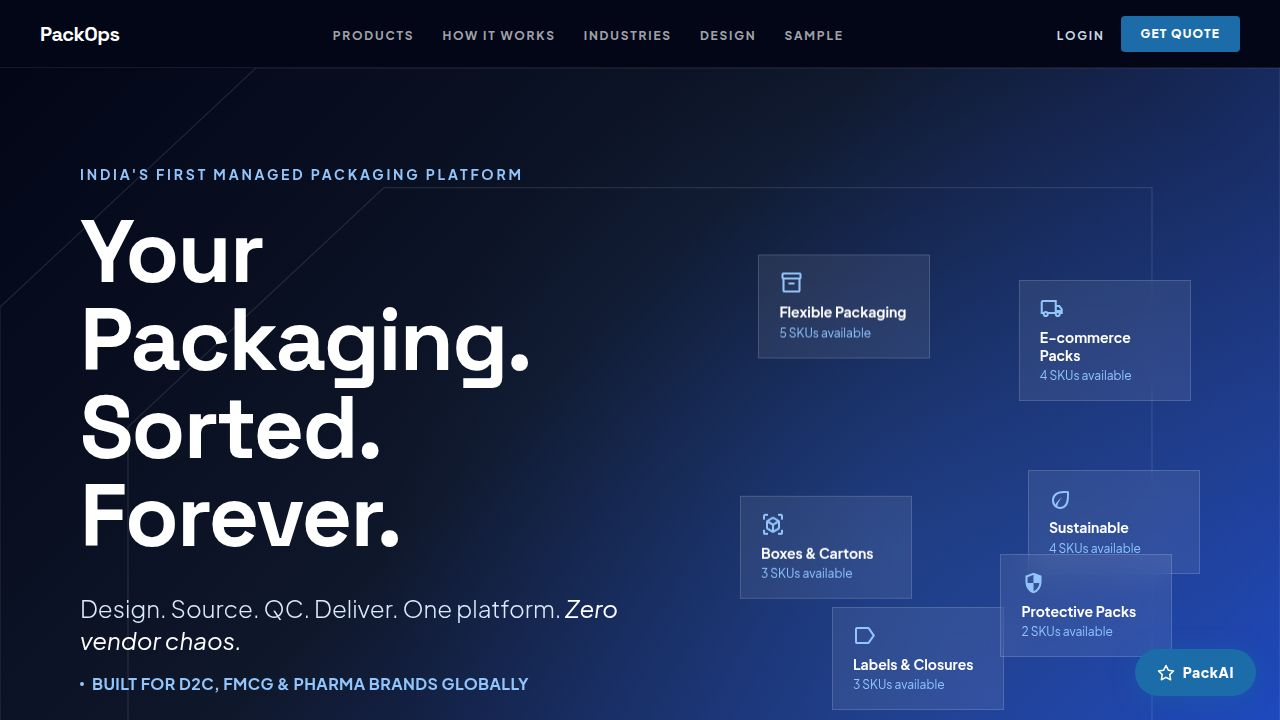
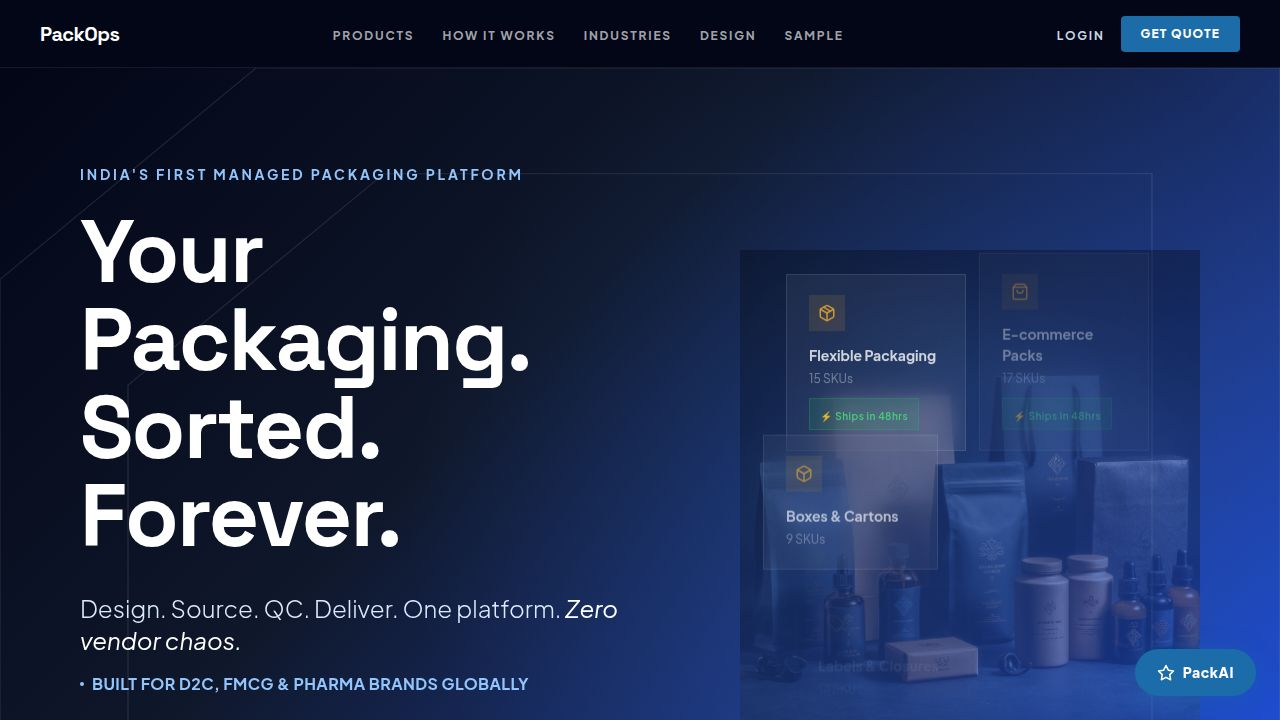
Update website design to align text and remove rounded corners
Refactor home page component, removing border-radius from various elements, adjusting hero section layout, redesigning the process section, updating stats, and adding a customer logo section.

Replit-Commit-Author: Agent
Replit-Commit-Session-Id: 9320c652-0aac-4a3b-9982-cb920823c318
Replit-Commit-Checkpoint-Type: full_checkpoint
Replit-Commit-Event-Id: f644e4ad-e3fe-4b98-9353-7b7ec3306c03
Replit-Commit-Screenshot-Url: https://storage.googleapis.com/screenshot-production-us-central1/300a5f71-6af5-4265-8b38-114f63a45436/9320c652-0aac-4a3b-9982-cb920823c318/lxqJ0bG
Replit-Helium-Checkpoint-Created: true

Changed region(s): [[0.5625, 0.3361, 0.9375, 1.0], [0.7812, 0.3361, 0.9375, 0.6111]]

diff --git a/artifacts/packwerk/src/pages/home.tsx b/artifacts/packwerk/src/pages/home.tsx
@@ -23,6 +23,17 @@ const MS = ({ icon, className = "", style }: IconProps) => (
 
 const MARQUEE_1 = Array(8).fill("We are not a vendor. We are your packaging partner.");
 
+const CUSTOMER_LOGOS = [
+  { name: "Mamaearth",        abbr: "ME",  color: "#2C7A0F" },
+  { name: "Nykaa",            abbr: "NK",  color: "#E91E8C" },
+  { name: "WOW Skin Science", abbr: "WOW", color: "#0047AB" },
+  { name: "Himalaya",         abbr: "H",   color: "#006341" },
+  { name: "Sugar Cosmetics",  abbr: "SG",  color: "#C0392B" },
+  { name: "Dabur",            abbr: "D",   color: "#E67E22" },
+  { name: "mCaffeine",        abbr: "mC",  color: "#4A235A" },
+  { name: "boAt",             abbr: "bT",  color: "#1A1A1A" },
+];
+
 const HERO_CARDS = [
   {
     title: "Flexible Packaging", Icon: Package, count: "15 SKUs", slug: "flexible", badge: true,
@@ -236,7 +247,6 @@ function CaseDetail({ cs }: { cs: typeof CASE_STUDIES[0] }) {
       background: "#F8F9FC",
       border: "1px solid #E2EAF4",
       borderTop: "3px solid #E8A838",
-      borderRadius: 16,
       padding: "44px 48px",
       minHeight: 380,
     }}>
@@ -275,7 +285,7 @@ function CaseDetail({ cs }: { cs: typeof CASE_STUDIES[0] }) {
           {cs.metrics.map((m) => (
             <div key={m.label} style={{
               background: "white", border: "1px solid #E2EAF4",
-              borderRadius: 10, padding: "18px 20px", textAlign: "center",
+              padding: "18px 20px", textAlign: "center",
             }}>
               <p style={{ color: "#E8A838", fontSize: 26, fontWeight: 700, lineHeight: 1 }}>{m.val}</p>
               <p style={{ color: "#64748B", fontSize: 12, marginTop: 6 }}>{m.label}</p>
@@ -365,7 +375,7 @@ export default function Home() {
       {/*  SECTION 1 — HERO                                         */}
       {/* ══════════════════════════════════════════════════════════ */}
       <section
-        className="relative min-h-[90vh] flex flex-col justify-center px-8 md:px-20 overflow-hidden py-24"
+        className="relative flex flex-col justify-center px-8 md:px-20 overflow-hidden pt-28 pb-16"
         style={{ background: "radial-gradient(circle at 70% 40%, rgba(59,130,246,0.18), transparent 45%), linear-gradient(135deg, #020617 0%, #0f172a 35%, #1e3a8a 65%, #1d4ed8 85%, #2563eb 100%)" }}
       >
         <div className="absolute inset-0 opacity-10 pointer-events-none">
@@ -376,7 +386,7 @@ export default function Home() {
         </div>
 
         <div className="relative z-10 w-full max-w-7xl mx-auto">
-          <div className="grid grid-cols-1 lg:grid-cols-[1fr_460px] gap-12 xl:gap-20 items-center mb-14">
+          <div className="grid grid-cols-1 lg:grid-cols-[1fr_460px] gap-12 xl:gap-16 items-center mb-10">
             <div>
               <p className="font-bold tracking-[0.2em] mb-6 text-sm uppercase" style={{ color: "#93c5fd" }}>
                 INDIA'S FIRST MANAGED PACKAGING PLATFORM
@@ -412,7 +422,7 @@ export default function Home() {
                 position: "absolute", inset: 0,
                 backgroundImage: "url('/images/hero-packaging-bg.jpg')",
                 backgroundSize: "cover", backgroundPosition: "center",
-                zIndex: 0, opacity: 0.3, borderRadius: 16,
+                zIndex: 0, opacity: 0.3,
               }} />
               {/* Cards container */}
               <div style={{ position: "relative", zIndex: 1, width: "100%", height: "100%" }}>
@@ -431,7 +441,6 @@ export default function Home() {
                           border: card.greenBorder
                             ? "1px solid rgba(74,222,128,0.2)"
                             : "1px solid rgba(255,255,255,0.12)",
-                          borderRadius: 16,
                           padding: "20px 22px",
                           cursor: "pointer",
                           animation: heroLoaded ? card.floatAnim : "none",
@@ -456,7 +465,7 @@ export default function Home() {
                         }}
                       >
                         <div style={{
-                          width: 36, height: 36, borderRadius: 10,
+                          width: 36, height: 36,
                           background: "rgba(232,168,56,0.15)",
                           display: "flex", alignItems: "center", justifyContent: "center",
                           marginBottom: 14,
@@ -474,7 +483,7 @@ export default function Home() {
                             display: "inline-block", marginTop: 10,
                             background: "rgba(34,197,94,0.15)",
                             border: "1px solid rgba(34,197,94,0.3)",
-                            borderRadius: 999, padding: "3px 10px",
+                            padding: "3px 10px",
                           }}>
                             <span style={{ color: "#4ade80", fontSize: 10, fontWeight: 600, letterSpacing: "0.5px" }}>
                               ⚡ Ships in 48hrs
@@ -490,39 +499,20 @@ export default function Home() {
           </div>
 
           {/* Stats strip */}
-          <div className="grid grid-cols-2 md:grid-cols-5 gap-8 py-10 border-t border-white/15">
-            {([
-              { target: 110, suffix: "+", label: "SKUs" },
-              { target: 500, suffix: "+", label: "Factory Partners" },
-              { target: 40,  suffix: "+", label: "Countries Served" },
-              { target: 100, suffix: "%", label: "QC Inspected" },
-              { amber: true,              label: "Hidden Charges", fixed: "₹0" },
-            ] as Array<{ target?: number; suffix?: string; label: string; amber?: boolean; fixed?: string }>).map((s) => (
+          <div className="grid grid-cols-2 md:grid-cols-4 gap-8 py-10 border-t border-white/15">
+            {[
+              { target: 500, suffix: "+", label: "Manufacturing Partners" },
+              { target: 1,   suffix: "",  label: "Owned Manufacturing Facility" },
+              { target: 220, suffix: "+", label: "Customers Globally" },
+              { target: 10,  suffix: "+", label: "Compliances" },
+            ].map((s) => (
               <div key={s.label}>
-                <p style={{ color: s.amber ? "#E8A838" : "white", fontSize: "1.5rem", fontWeight: 700 }}>
-                  {s.fixed ?? <CountUp target={s.target!} suffix={s.suffix} />}
+                <p style={{ color: "white", fontSize: "1.5rem", fontWeight: 700 }}>
+                  <CountUp target={s.target} suffix={s.suffix} />
                 </p>
                 <p className="text-blue-200 text-xs uppercase tracking-widest mt-1 opacity-80">{s.label}</p>
               </div>
             ))}
-          </div>
-
-          {/* Client logo marquee */}
-          <div className="mt-10 overflow-hidden" style={{ borderTop: "1px solid rgba(255,255,255,0.12)", paddingTop: 20 }}>
-            <p className="text-center text-xs font-bold tracking-[0.25em] uppercase mb-5" style={{ color: "rgba(255,255,255,0.5)" }}>
-              Trusted by D2C, FMCG &amp; Pharma brands
-            </p>
-            <div style={{ overflow: "hidden" }}>
-              <div className="marquee-track">
-                {[...CLIENT_PILLS, ...CLIENT_PILLS].map((name, i) => (
-                  <span key={i} className="font-bold text-sm px-5 py-2.5 rounded-full" style={{
-                    background: "rgba(255,255,255,0.08)",
-                    border: "1px solid rgba(255,255,255,0.15)",
-                    color: "white", whiteSpace: "nowrap", flexShrink: 0,
-                  }}>{name}</span>
-                ))}
-              </div>
-            </div>
           </div>
         </div>
       </section>
@@ -537,6 +527,74 @@ export default function Home() {
           ))}
         </div>
       </div>
+
+      {/* ══════════════════════════════════════════════════════════ */}
+      {/*  SECTION 3B — OUR CUSTOMERS                               */}
+      {/* ══════════════════════════════════════════════════════════ */}
+      <section style={{ background: "#FFFFFF", borderBottom: "1px solid #E2EAF4", padding: "72px 0" }}>
+        <div style={{ maxWidth: 1200, margin: "0 auto", padding: "0 64px" }}>
+          <div style={{ display: "flex", alignItems: "center", gap: 80 }}>
+            {/* Left: heading */}
+            <div style={{ flexShrink: 0, width: 280 }}>
+              <p style={{
+                color: "#1B6CA8", fontSize: 11, fontWeight: 600,
+                letterSpacing: "2px", textTransform: "uppercase",
+                marginBottom: 16,
+              }}>
+                OUR CUSTOMERS
+              </p>
+              <h2 style={{
+                color: "#0D1B2A", fontSize: 28, fontWeight: 700,
+                lineHeight: 1.25, marginBottom: 12,
+              }}>
+                Brands across India and globally trust PackOps.
+              </h2>
+              <p style={{ color: "#64748B", fontSize: 14, lineHeight: 1.6 }}>
+                D2C, FMCG &amp; Pharma brands rely on us to source, QC and deliver their packaging.
+              </p>
+            </div>
+
+            {/* Right: logo grid */}
+            <div style={{
+              flex: 1,
+              display: "grid",
+              gridTemplateColumns: "repeat(4, 1fr)",
+              gap: "0",
+              border: "1px solid #E2EAF4",
+            }}>
+              {CUSTOMER_LOGOS.map((logo, i) => (
+                <div
+                  key={logo.name}
+                  style={{
+                    padding: "28px 20px",
+                    display: "flex", flexDirection: "column",
+                    alignItems: "center", justifyContent: "center", gap: 8,
+                    borderRight: i % 4 !== 3 ? "1px solid #E2EAF4" : "none",
+                    borderBottom: i < 4 ? "1px solid #E2EAF4" : "none",
+                    transition: "background 0.2s",
+                  }}
+                  onMouseEnter={e => { (e.currentTarget as HTMLElement).style.background = "#F8F9FC"; }}
+                  onMouseLeave={e => { (e.currentTarget as HTMLElement).style.background = "white"; }}
+                >
+                  <div style={{
+                    width: 40, height: 40,
+                    background: logo.color + "18",
+                    border: `1px solid ${logo.color}30`,
+                    display: "flex", alignItems: "center", justifyContent: "center",
+                  }}>
+                    <span style={{ color: logo.color, fontSize: 12, fontWeight: 800, letterSpacing: "-0.5px" }}>
+                      {logo.abbr}
+                    </span>
+                  </div>
+                  <span style={{ color: "#64748B", fontSize: 11, fontWeight: 600, letterSpacing: "0.02em", textAlign: "center" }}>
+                    {logo.name}
+                  </span>
+                </div>
+              ))}
+            </div>
+          </div>
+        </div>
+      </section>
 
       {/* ══════════════════════════════════════════════════════════ */}
       {/*  SECTION 4 — PAIN POINTS                                   */}
@@ -600,7 +658,7 @@ export default function Home() {
             {/* Header row */}
             <div style={{ display: "grid", gridTemplateColumns: "2fr 1.5fr 1.5fr", borderBottom: "1px solid #E2EAF4" }}>
               <div style={{ background: "#F8F9FC", padding: "20px 28px" }} />
-              <div style={{ background: "#0D1B2A", padding: "20px 28px", textAlign: "center", borderRadius: "12px 0 0 0", borderBottom: "2px solid #E8A838" }}>
+              <div style={{ background: "#0D1B2A", padding: "20px 28px", textAlign: "center", borderBottom: "2px solid #E8A838" }}>
                 <p style={{ color: "white", fontSize: 16, fontWeight: 700 }}>PackOps</p>
                 <p style={{ color: "#1B6CA8", fontSize: 11, textTransform: "uppercase", letterSpacing: "1.5px", marginTop: 4 }}>Managed Platform</p>
               </div>
@@ -669,35 +727,40 @@ export default function Home() {
           </p>
 
           <div
-            className="grid grid-cols-2 md:grid-cols-4"
-            style={{ maxWidth: 1000, margin: "0 auto", position: "relative", gap: 0 }}
+            className="grid grid-cols-1 md:grid-cols-4"
+            style={{ border: "1px solid #E2EAF4" }}
           >
-            {/* Connecting line */}
-            <div className="hidden md:block" style={{
-              position: "absolute", top: 28,
-              left: "12.5%", right: "12.5%",
-              height: 1,
-              background: "#E2EAF4",
-              zIndex: 0,
-            }} />
-
             {HOW_IT_WORKS_STEPS.map((step, i) => {
               const Icon = step.Icon;
               return (
-                <div key={i} style={{ position: "relative", zIndex: 1, textAlign: "center", padding: "0 16px" }}>
-                  <p style={{ color: "#E8A838", fontSize: 11, fontWeight: 700, textTransform: "uppercase", letterSpacing: "1.5px", marginBottom: 8 }}>
-                    {step.num}
-                  </p>
-                  <div style={{
-                    width: 56, height: 56, borderRadius: "50%",
-                    background: "#0D1B2A",
-                    display: "flex", alignItems: "center", justifyContent: "center",
-                    margin: "0 auto 24px",
-                  }}>
-                    <Icon size={22} color="#E8A838" />
+                <div
+                  key={i}
+                  style={{
+                    borderRight: i < 3 ? "1px solid #E2EAF4" : "none",
+                    background: "white",
+                    display: "flex", flexDirection: "column",
+                  }}
+                >
+                  {/* Amber top strip */}
+                  <div style={{ height: 3, background: "#E8A838" }} />
+                  <div style={{ padding: "28px 24px", flex: 1 }}>
+                    <p style={{
+                      color: "#E8A838", fontSize: 11, fontWeight: 700,
+                      textTransform: "uppercase", letterSpacing: "1.5px", marginBottom: 20,
+                    }}>
+                      {step.num}
+                    </p>
+                    <div style={{
+                      width: 44, height: 44,
+                      background: "#0D1B2A",
+                      display: "flex", alignItems: "center", justifyContent: "center",
+                      marginBottom: 20,
+                    }}>
+                      <Icon size={20} color="#E8A838" />
+                    </div>
+                    <h3 style={{ color: "#0D1B2A", fontSize: 16, fontWeight: 700, marginBottom: 10 }}>{step.title}</h3>
+                    <p style={{ color: "#64748B", fontSize: 13, lineHeight: 1.65, margin: 0 }}>{step.desc}</p>
                   </div>
-                  <h3 style={{ color: "#0D1B2A", fontSize: 17, fontWeight: 700, marginBottom: 8 }}>{step.title}</h3>
-                  <p style={{ color: "#64748B", fontSize: 13, lineHeight: 1.6 }}>{step.desc}</p>
                 </div>
               );
             })}
@@ -738,30 +801,30 @@ export default function Home() {
       {/*  SECTION 7 — STATS STRIP                                  */}
       {/* ══════════════════════════════════════════════════════════ */}
       <section style={{
-        background: "#F8F9FC",
-        borderTop: "1px solid #E2EAF4", borderBottom: "1px solid #E2EAF4",
-        padding: "56px 0",
+        background: "linear-gradient(135deg, #020617 0%, #0f172a 35%, #1e3a8a 65%, #1d4ed8 85%, #2563eb 100%)",
+        padding: "72px 0",
       }}>
-        <div style={{ maxWidth: 900, margin: "0 auto", padding: "0 40px" }}>
-          <div className="flex flex-col md:flex-row justify-center items-center" style={{ gap: 0 }}>
+        <div style={{ maxWidth: 1000, margin: "0 auto", padding: "0 40px" }}>
+          <div className="grid grid-cols-2 md:grid-cols-4" style={{ gap: 0 }}>
             {[
-              { target: 500, suffix: "+", label: "Verified factory partners", sub: null },
-              { target: 1, suffix: "", label: "Owned manufacturing facility", sub: "Flexo + Rotogravure · Indore" },
-              { target: 40, suffix: "+", label: "Countries served", sub: null },
+              { target: 500, suffix: "+", label: "Manufacturing Partners" },
+              { target: 1,   suffix: "",  label: "Owned Manufacturing Facility" },
+              { target: 220, suffix: "+", label: "Customers Globally" },
+              { target: 10,  suffix: "+", label: "Compliances" },
             ].map((stat, i) => (
-              <div key={i} style={{ display: "flex", alignItems: "center", gap: 0 }}>
-                {i > 0 && (
-                  <div className="hidden md:block" style={{ width: 1, height: 52, background: "#E2EAF4", margin: "0 64px" }} />
-                )}
-                <div style={{ textAlign: "center", padding: "16px 0" }}>
-                  <p style={{ color: "#E8A838", fontSize: 52, fontWeight: 700, lineHeight: 1 }}>
-                    <CountUp target={stat.target} suffix={stat.suffix} />
-                  </p>
-                  <p style={{ color: "#64748B", fontSize: 14, marginTop: 4 }}>{stat.label}</p>
-                  {stat.sub && (
-                    <p style={{ color: "#1B6CA8", fontSize: 11, marginTop: 3, fontWeight: 600 }}>{stat.sub}</p>
-                  )}
-                </div>
+              <div
+                key={i}
+                style={{
+                  textAlign: "center", padding: "24px 16px",
+                  borderRight: i < 3 ? "1px solid rgba(255,255,255,0.12)" : "none",
+                }}
+              >
+                <p style={{ color: "#E8A838", fontSize: 52, fontWeight: 700, lineHeight: 1 }}>
+                  <CountUp target={stat.target} suffix={stat.suffix} />
+                </p>
+                <p style={{ color: "rgba(255,255,255,0.6)", fontSize: 13, marginTop: 8, textTransform: "uppercase", letterSpacing: "0.08em", fontWeight: 500 }}>
+                  {stat.label}
+                </p>
               </div>
             ))}
           </div>
@@ -1013,7 +1076,6 @@ export default function Home() {
                     style={{
                       background: isActive ? "#FFFBF0" : "white",
                       border: `1px solid ${isActive ? "#E8A838" : "#E2EAF4"}`,
-                      borderRadius: 14,
                       padding: "22px 24px",
                       cursor: "pointer",
                       position: "relative",
@@ -1356,7 +1418,7 @@ export default function Home() {
         />
 
         {/* Content */}
-        <div className="relative" style={{ zIndex: 1, maxWidth: 600, margin: "0 auto", padding: "0 40px" }}>
+        <div className="relative" style={{ zIndex: 1, maxWidth: 600, margin: "0 auto", padding: "0 40px", textAlign: "center" }}>
 
           {/* Eyebrow */}
           <span style={{